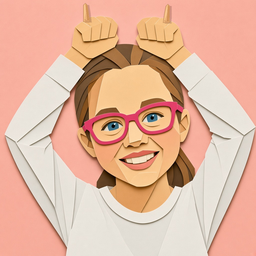
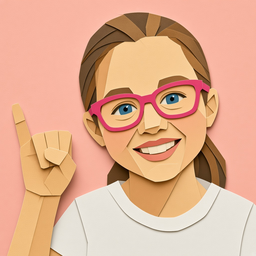
Replace the Julia pinky-up trial with one still that has a real hand.

diff --git a/src/screens/CelebrationPreview.tsx b/src/screens/CelebrationPreview.tsx
@@ -11,14 +11,6 @@ const LABELS: Record<string, string> = {
   julia: 'glasses pulse',
 }
 
-const JULIA_PINKY_FRAMES = [
-  'julia-pinky-f1.png',
-  'julia-pinky-f2.png',
-  'julia-pinky-f1.png',
-  'julia-pinky-f3.png',
-  'julia-pinky-f1.png',
-]
-
 type CelebrationPreviewProps = {
   onLeave: () => void
 }
@@ -47,7 +39,7 @@ export function CelebrationPreview({ onLeave }: CelebrationPreviewProps) {
           </button>
         </div>
       </header>
-      <p className="lede">Play once. Replay to watch again. Pinky-up is a trial only — idle portraits stay handless, and it is not in the live game yet.</p>
+      <p className="lede">Play once. Replay to watch again. Julia’s extra card is one still, not in the game yet.</p>
       <div className="celebration-grid">
         {CHARACTERS.map((character) => (
           <figure key={`${character.id}-${play}`} className="celebration-card">
@@ -63,17 +55,18 @@ export function CelebrationPreview({ onLeave }: CelebrationPreviewProps) {
             </figcaption>
           </figure>
         ))}
-        <figure key={`julia-pinky-${play}`} className="celebration-card">
-          <CharacterAvatar
-            characterId="julia"
-            name="Julia"
-            size={200}
-            mood="surprise"
-            poseFrames={JULIA_PINKY_FRAMES}
+        <figure className="celebration-card">
+          <img
+            className="character-avatar"
+            src={`${import.meta.env.BASE_URL}avatars/julia-pinky-f1.png`}
+            alt=""
+            width={200}
+            height={200}
+            style={{ width: 200, height: 200, borderRadius: 44 }}
           />
           <figcaption>
             <strong>Julia</strong>
-            <span>pinky-up (trial)</span>
+            <span>one hand (trial)</span>
           </figcaption>
         </figure>
       </div>
